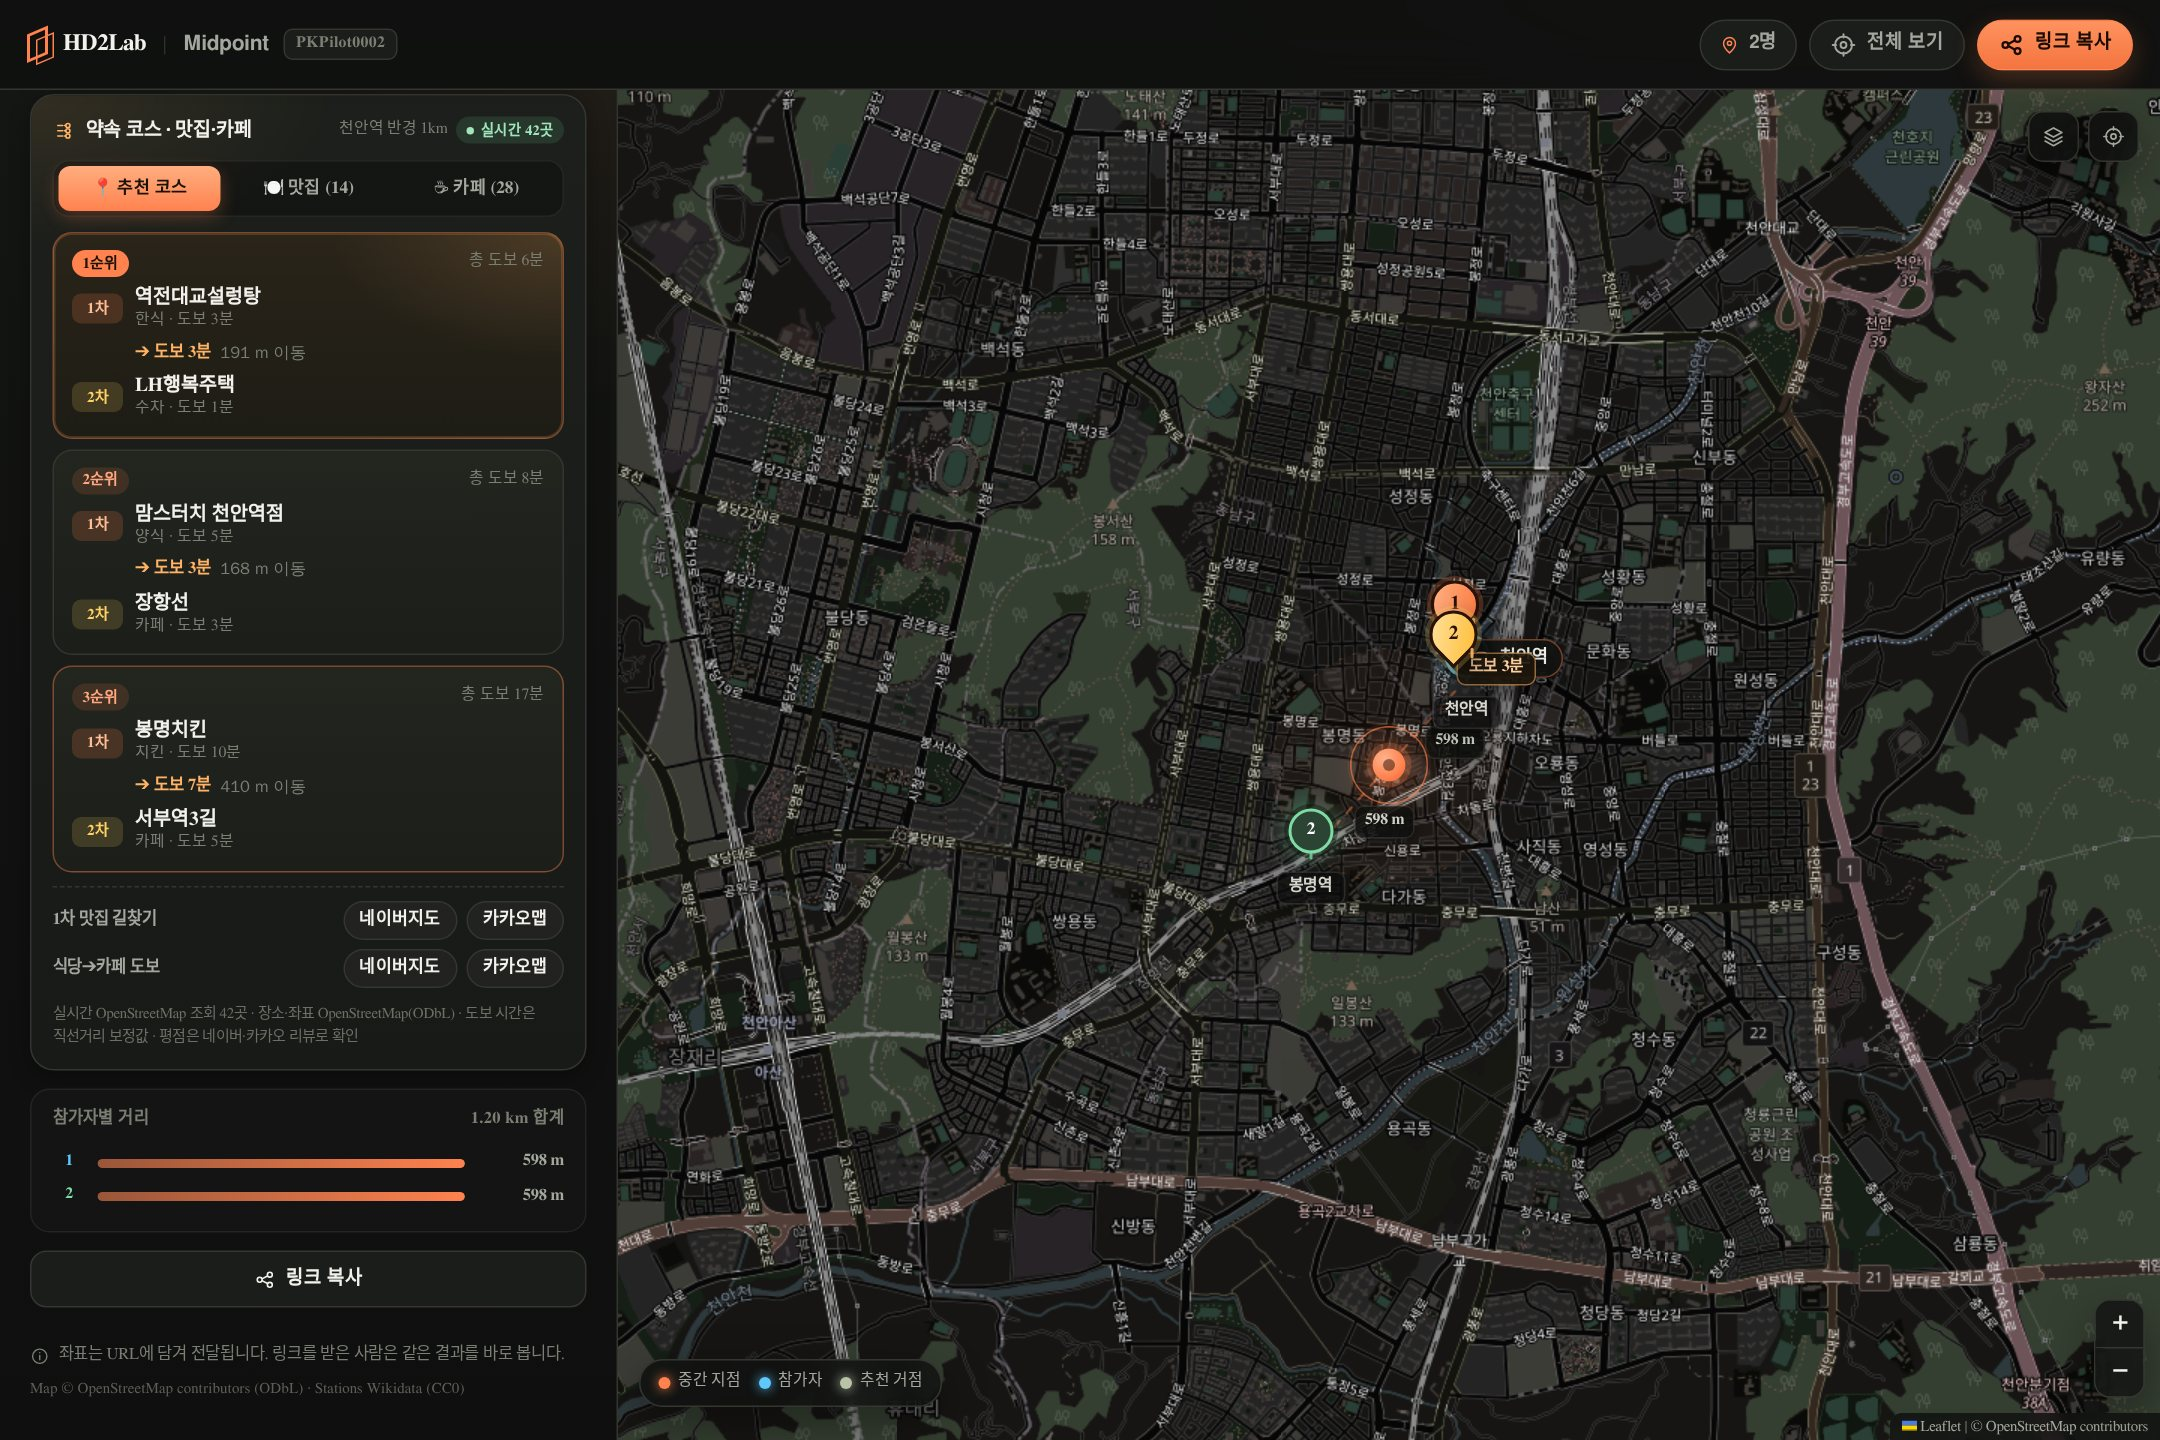
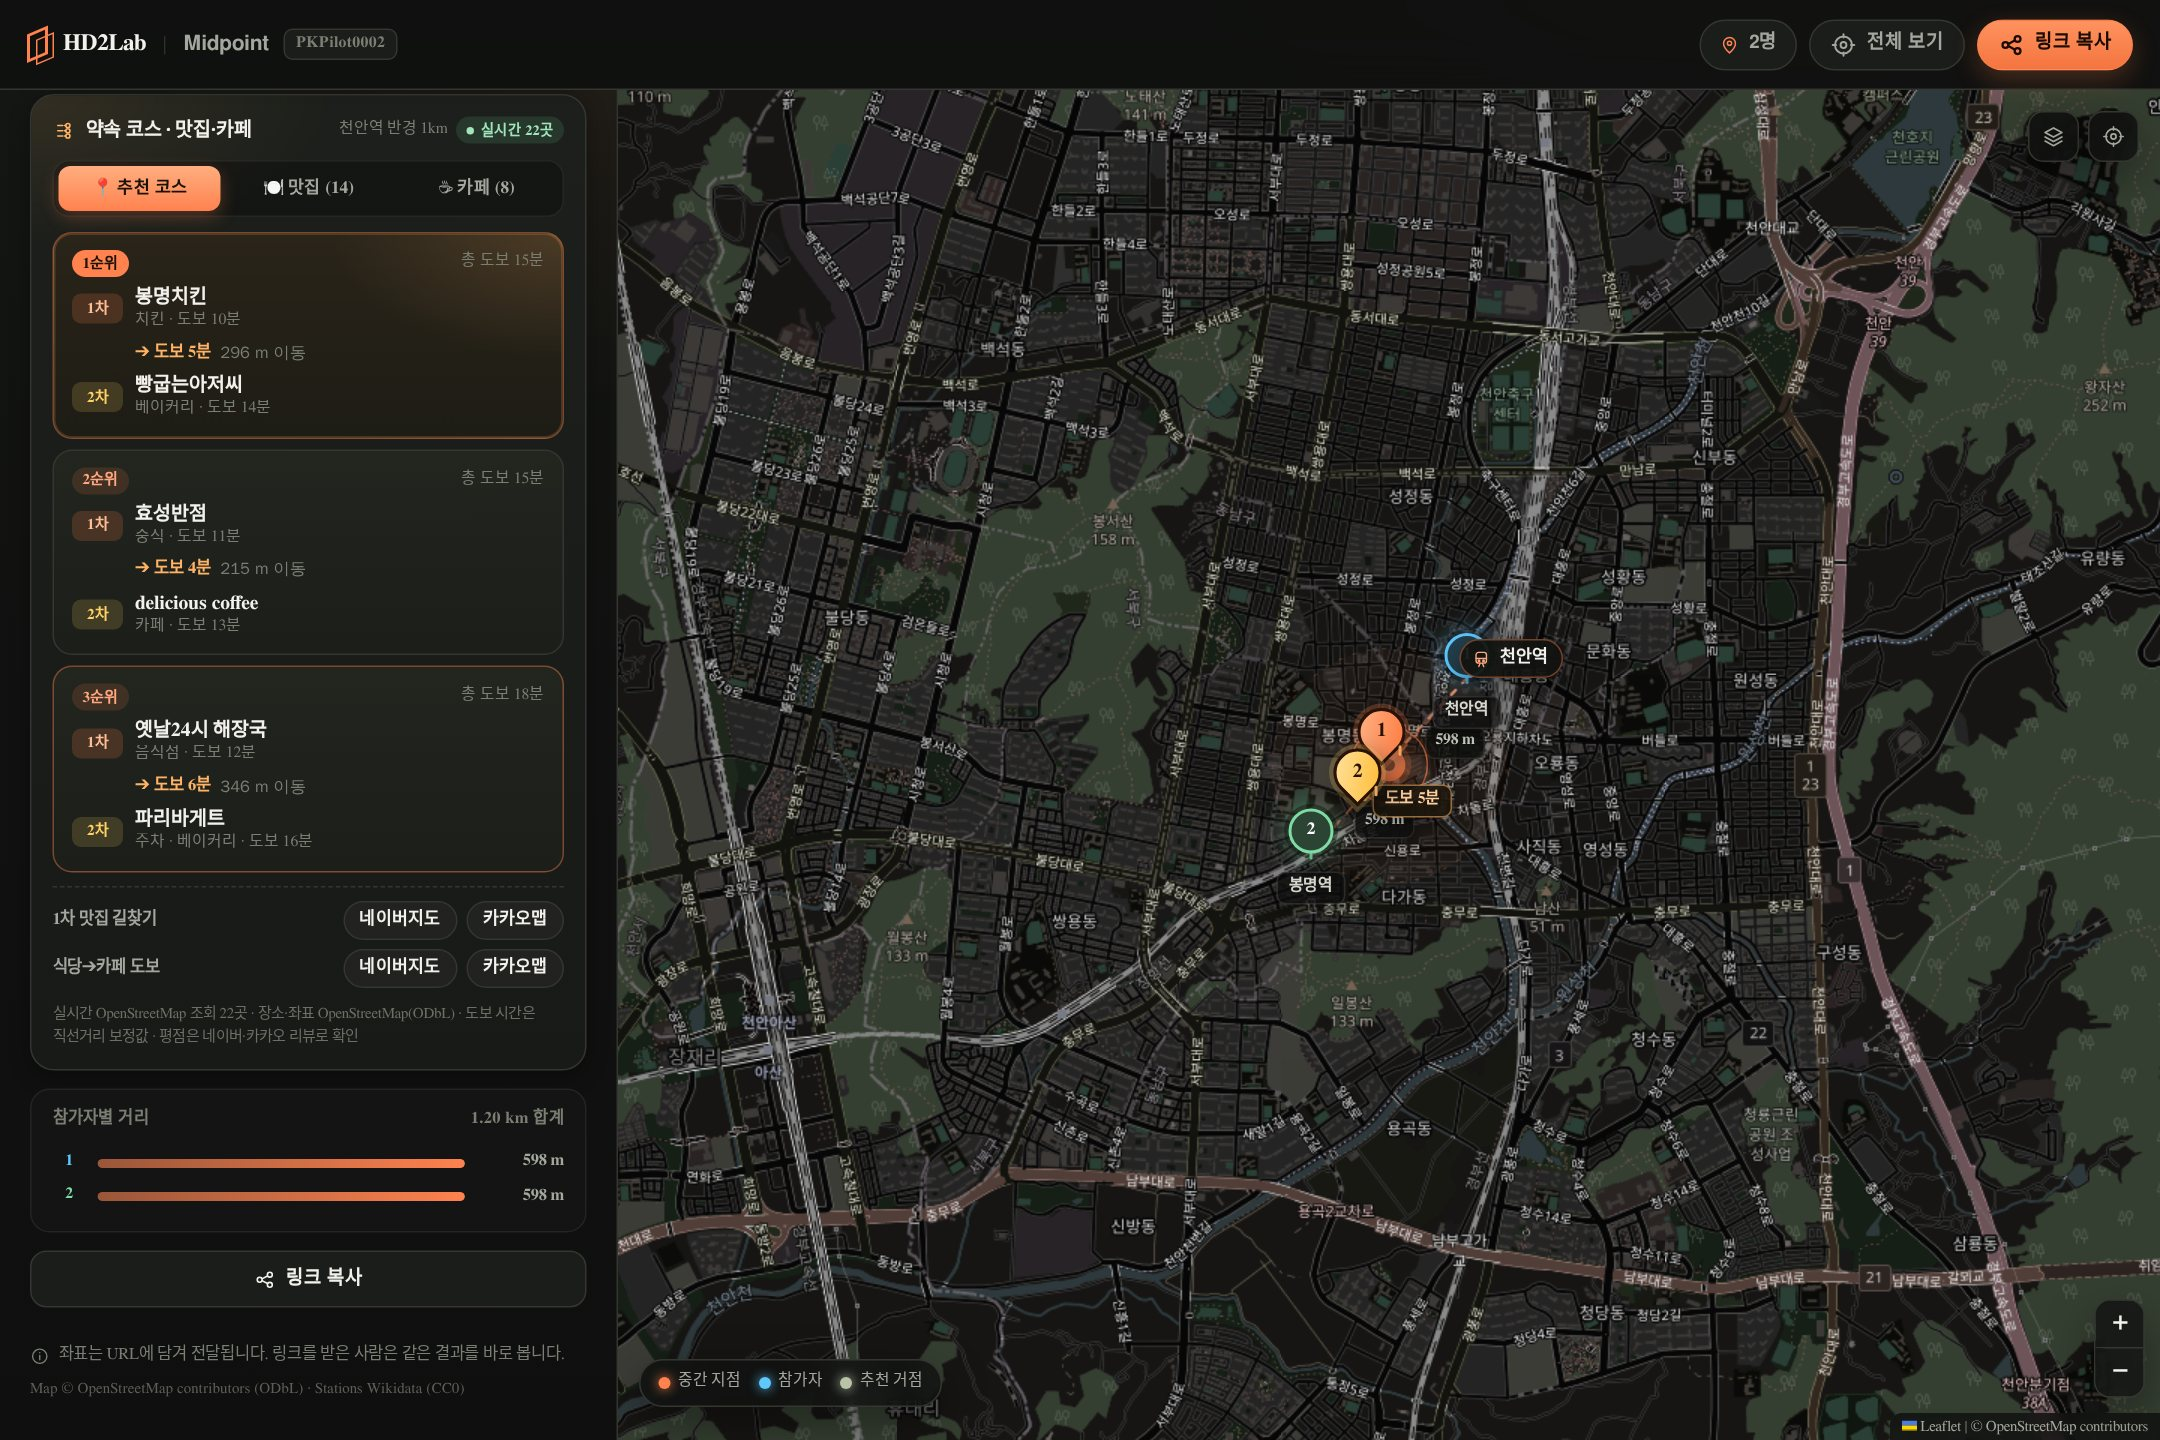
fix(pkpilot0002): 실시간 조회에서 이름 있는 도로·철도·건물이 카페로 분류되던 문제 수정
- OSM 지도 API(bbox) fallback 은 bbox 안의 모든 요소(도로·철도·교회·건물)를 돌려주는데,
  업종 태그가 없는 이름 있는 요소가 기본값 '카페'로 분류되어 '경부선'·'원남로1길'·'금강사' 같은
  항목이 카페·코스에 섞였습니다.
- isFoodPoi() 가드 추가: amenity=restaurant|cafe|fast_food|bakery|ice_cream 또는
  shop=bakery|coffee|dessert|ice_cream 인 요소만 POI 로 인정
- 단위 테스트 2개 추가(도로·철도·종교시설·건물 배제), 143개 전부 통과
- 화면 검증 스크린샷 재측정: 구미역 카페 28→13(실제 카페), 의정부 26, 이수 29, 천안 8

diff --git a/PKPilot0002/js/live_places.js b/PKPilot0002/js/live_places.js
@@ -30,6 +30,9 @@ const OSM_MAP_ENDPOINT = 'https://api.openstreetmap.org/api/0.6/map.json';
 
 const AMENITY_PATTERN = '^(restaurant|cafe|fast_food|bakery|ice_cream)$';
 const SHOP_PATTERN = '^(bakery|coffee|dessert|ice_cream)$';
+/** 음식점으로 볼 수 있는 OSM 태그 — OSM 지도 API 응답에는 도로·철도·건물도 섞여 온다. */
+export const FOOD_AMENITIES = ['restaurant', 'cafe', 'fast_food', 'bakery', 'ice_cream'];
+export const FOOD_SHOPS = ['bakery', 'coffee', 'dessert', 'ice_cream'];
 const PARKING_SEARCH_M = 150;
 const MAX_RESTAURANTS = 36;
 const MAX_CAFES = 28;
@@ -128,6 +131,11 @@ export function isNonFoodName(name) {
   if (!lowered) return true;
   if (NON_FOOD_EXACT.includes(lowered)) return true;
   return NON_FOOD_HINTS.some(hint => lowered.includes(hint));
+}
+
+/** 식당·카페로 볼 수 있는 태그인가 — 이름만 있는 도로·철도·건물·종교시설을 걸러낸다. */
+export function isFoodPoi(tags = {}) {
+  return FOOD_AMENITIES.includes(tags.amenity) || FOOD_SHOPS.includes(tags.shop);
 }
 
 /** OSM 태그 → { kind: 'restaurant'|'cafe', category } */
@@ -293,6 +301,8 @@ export function parseLiveElements(elements, origin, options = {}) {
       parking.push(coords);
       continue;
     }
+    // OSM 지도 API 응답에는 이름 있는 도로·철도·건물도 들어 있다 — 음식점만 남긴다.
+    if (!isFoodPoi(tags)) continue;
     const name = cleanPlaceName(tags);
     if (!name || isNonFoodName(name)) continue;
     candidates.push({ element, tags, coords, name });
